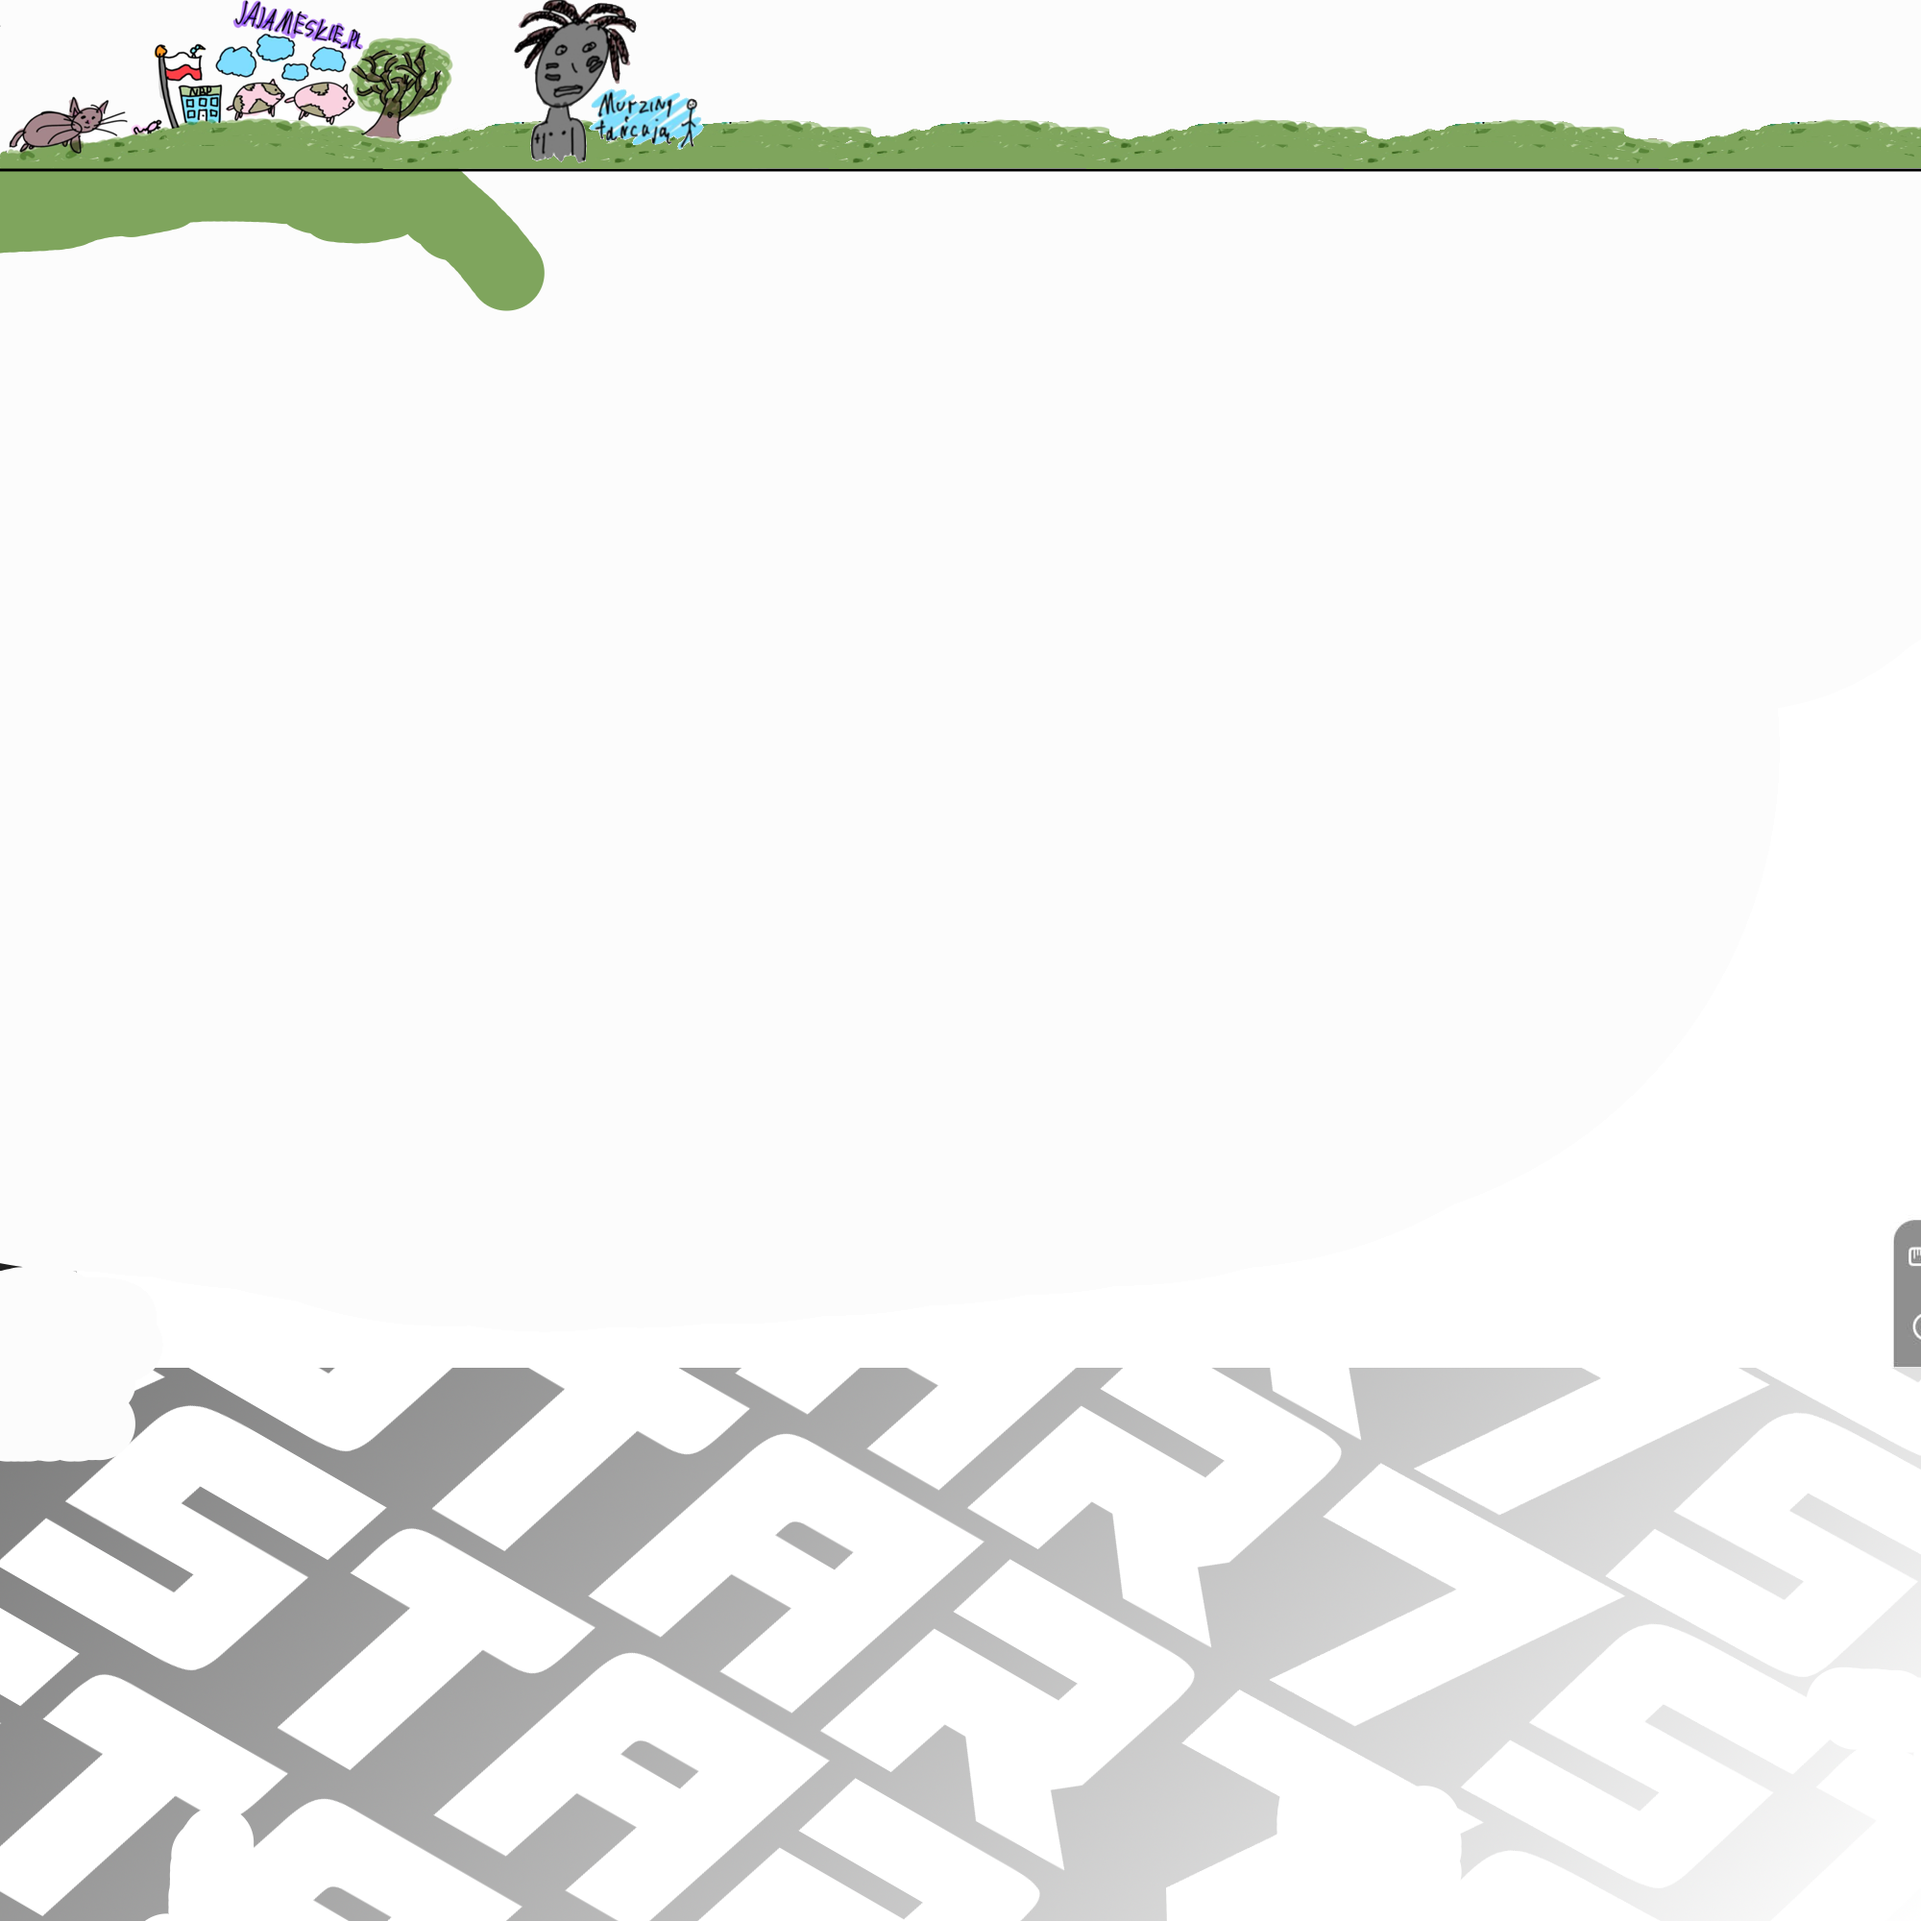
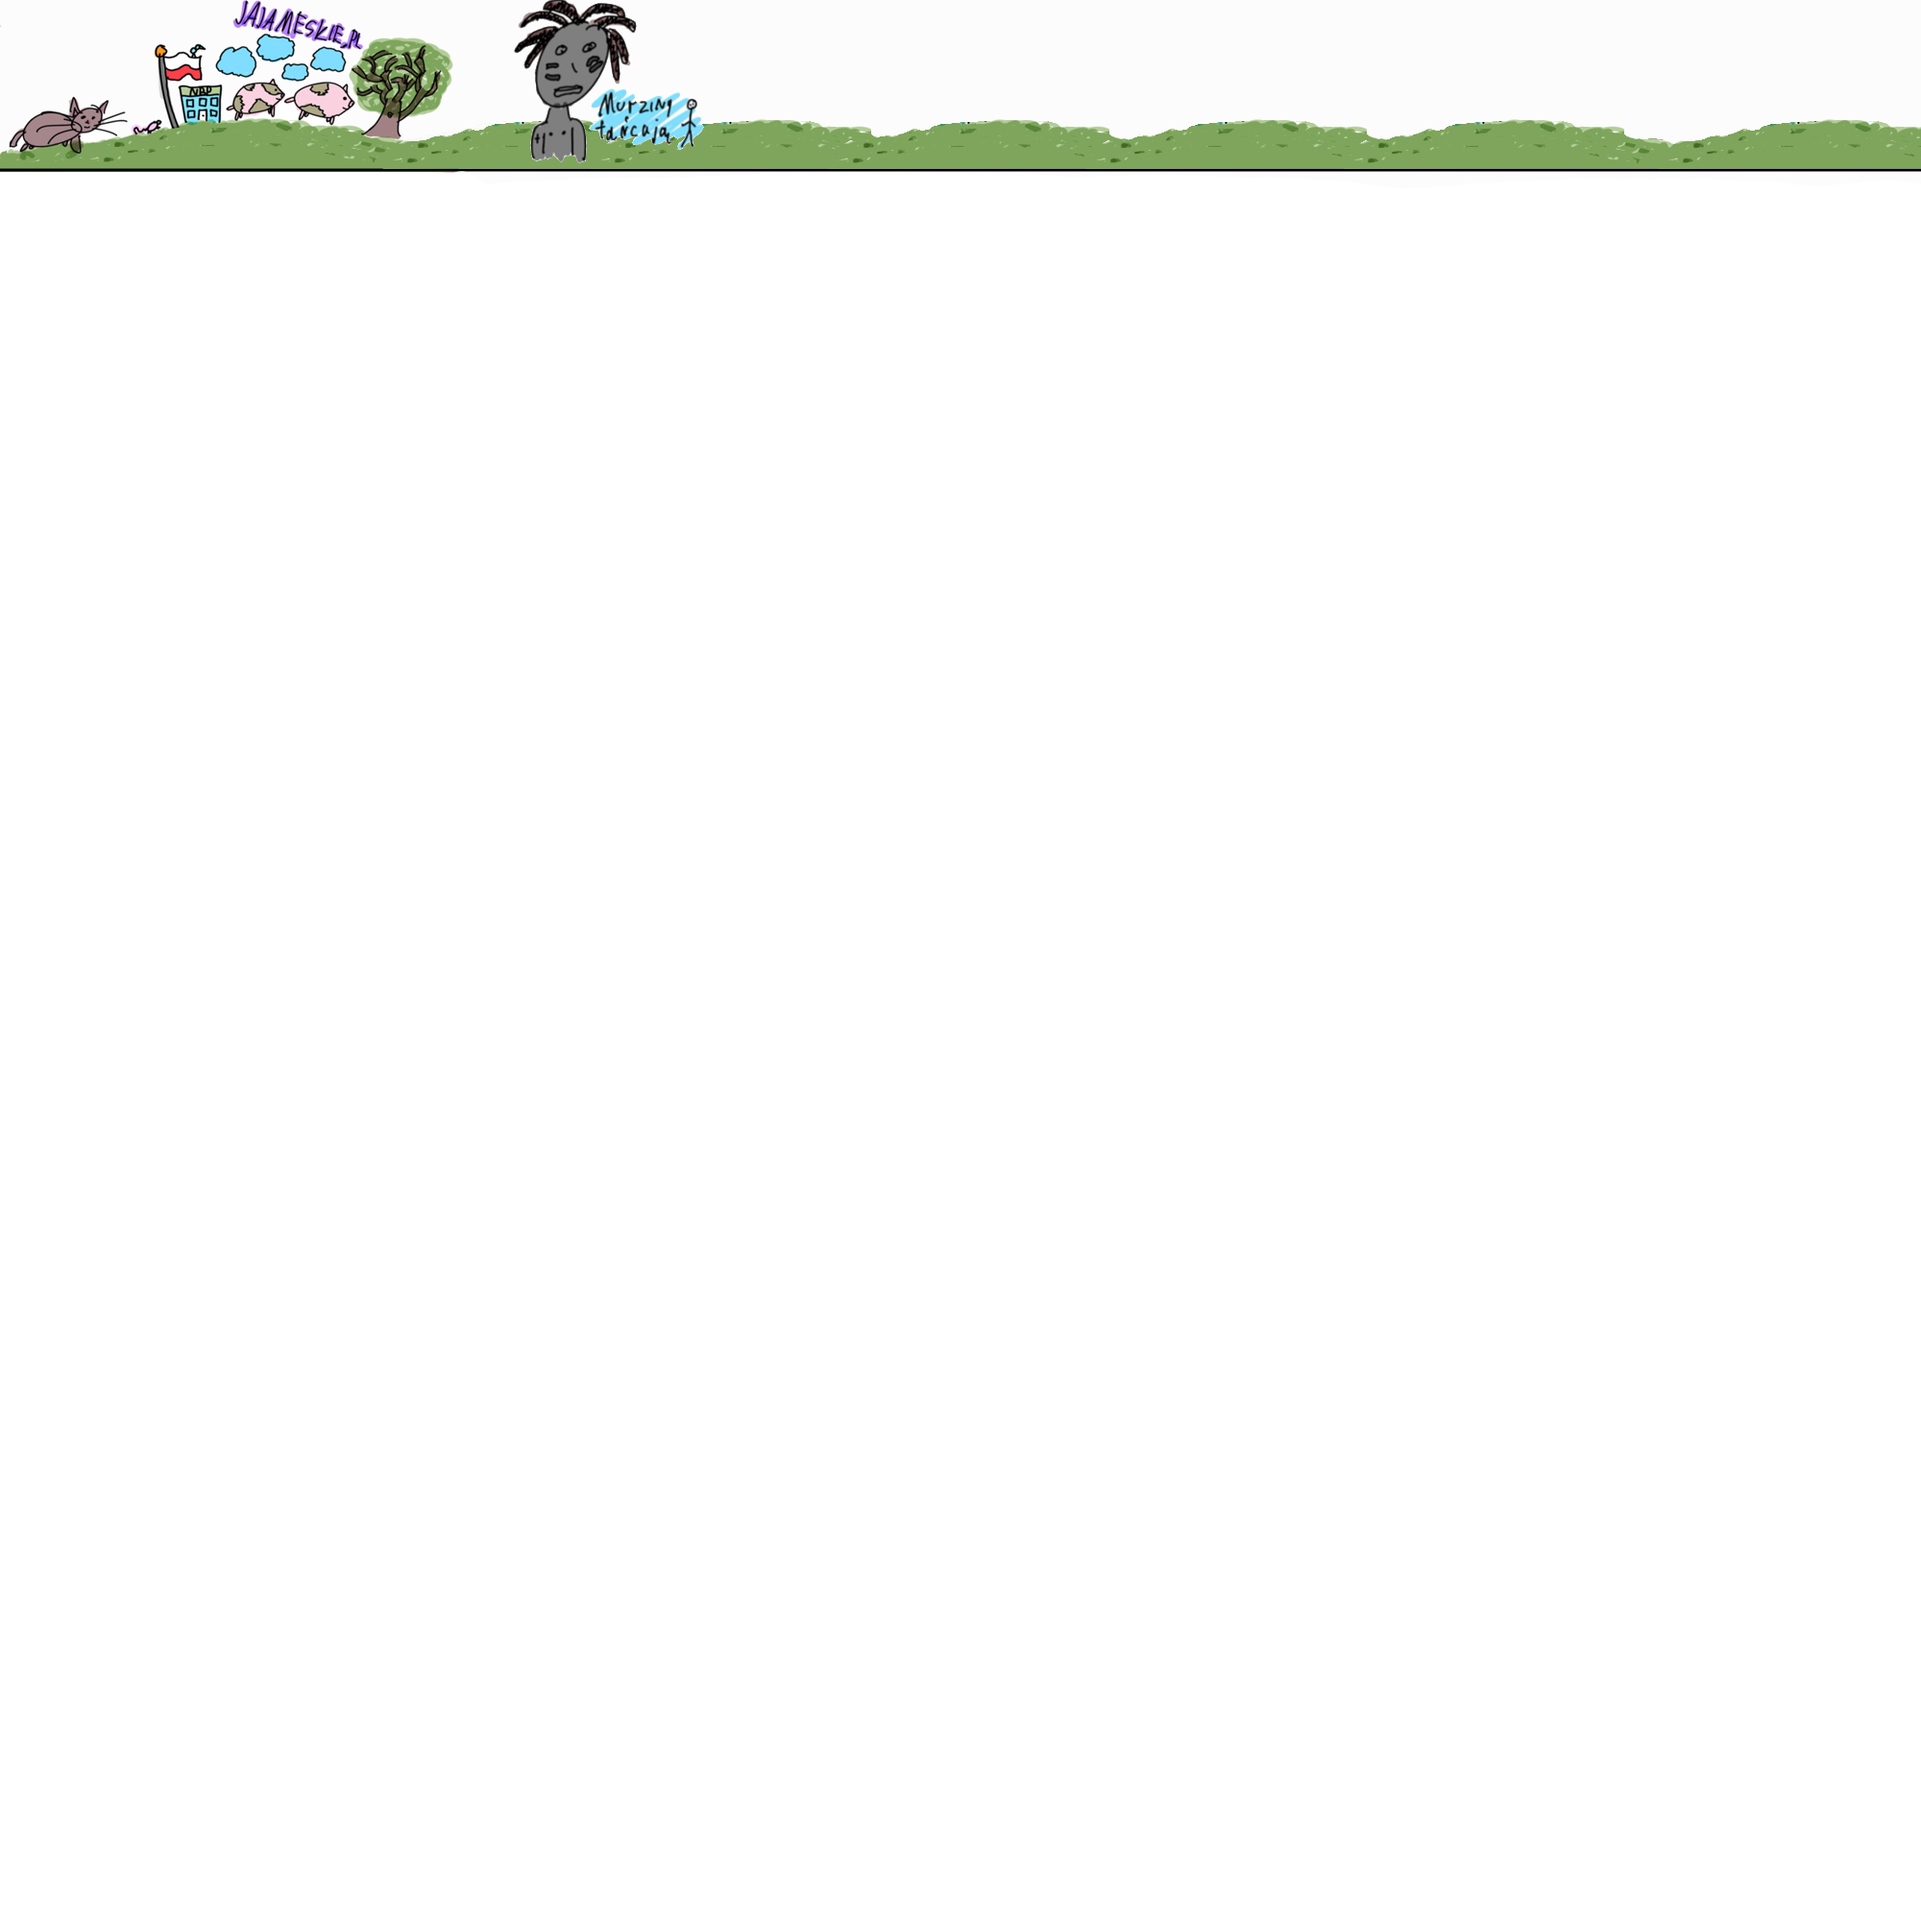
jajameskie 2.0 uuu sigma sigma

diff --git a/index.html b/index.html
@@ -1,6 +1,6 @@
 
 <title>jajameskie.pl 🤠</title>
-<body style="background-color:rgb(199, 199, 199);">
+<body style="background-color:rgb(255, 255, 255);">
 
   <!DOCTYPE html>
   <!--imports-->
@@ -11,10 +11,10 @@
   <link rel="icon" type="image/x-icon" href="assets/favicon.ico">
   <title>7STAR</title>
   
-  <body>
+  <body style="position: fixed;">
       <div id="banner">
-      <div id="banner-content" style=" color: #000000">
-          <table style="border-collapse: collapse; width: 97%; height: 150px; color: #000000" border="0">
+      <div id="banner-content" style=" color: #ffffff">
+          <table style="border-collapse: collapse; width: 97%; height: 150px; color: #ffffff" border="0">
               <tbody>
               <tr style="height: 30px;">
               <td style="width: 0%; height: 30px; vertical-align: top;"><a href="1.html" style="text-decoration: none; color: #000000;"><img style="height: 88px; width: 88px; margin-right: 30px;" src="assets/newlogosmall.png"></a></td>
@@ -25,26 +25,69 @@
               <td style="width: 1%; height: 30px; vertical-align: top;"><a href="6.html" style="text-decoration: none; color: #000000;"><h1 style="position: static; margin-top: 25px;"> </h1></a></td>
               <td style="width: 0%; height: 30px; vertical-align: top; color: red;"><h6><!--tutaj text--></h6></td>
               <td style="width: 0%; height: 30px; vertical-align: top;">&nbsp;</td>
-              <td style="width: 1%; height: 30px; vertical-align: center;"><a href="koszyk.html" style="text-decoration: none; color: #000000;"><img style="float: right; margin-right: 15px; height: 140px; width: 140px;" src="assets/dog.gif"></a></td>
-              <td style="width: 0%; height: 30px; vertical-align: center;"><a href="szukaj.html" style="text-decoration: none; color: #000000;"><img style="float: right; height: 140px; width: 140px;" src="assets/monkey.gif"></a></td>
+              <td style="width: 1%; height: 30px; vertical-align: center;"><a style="text-decoration: none; color: #000000;"><img style="float: right; margin-right: 15px; height: 140px; width: 140px;" src="assets/dog.gif"></a></td>
+
               </tr>
               </tbody>
               </table>
-          
-              
-  
+              </div> 
       </div>
+              <body style="overscroll-behavior-x: auto;">
+  
+              <head>
+                <meta charset="UTF-8" />
+                <meta name="viewport" content="width=device-width, initial-scale=1" />
+                <link rel="stylesheet" href="./index.css">
+              </head>
+
+
+                <div id="chatmessagesv1" style="height: 10px;">
+                <div id="chat">
+                  <!-- messages will display here -->
+                  <ul id="messages"></ul>
+            
+                  <!-- form to send message -->
+                  <script>
+                    var input = document.getElementById("message-input");
+                    input.addEventListener("keypress", function(event) {
+                      if (event.key === "Enter") {
+                        event.preventDefault();
+                        document.getElementById("message-btn").click();
+                      }
+                    });
+                    </script>
+                  </div id="chatmessagesv1">
+                  </body>
+
+                  <form id="message-form">
+                    <input style="margin-top: 20px;" id="message-input" type="text" />
+                    <button id="message-btn" type="submit">kocham pieski hau hau</button>
+                  </form>
+                </div>
+      
+
+
+                <!-- scripts -->
+                <script src="https://www.gstatic.com/firebasejs/8.2.1/firebase-app.js"></script>
+                <script src="https://www.gstatic.com/firebasejs/8.2.1/firebase-database.js"></script>
+                <script src="index.js"></script>
+            </html>
+            
+
+
+
+     <!-- </div>
       </div>
       <div id="main-content">
-          <h4 style="margin-top: 120px; margin-left: 60px; margin-bottom: 0px; color: #8b8b8b;"><!--tutaj text nad rzeczami--></h4>
+          <h4 style="margin-top: 120px; margin-left: 60px; margin-bottom: 0px; color: #8b8b8b;"></h4>
           <div class="items" style="color: #ffffff;">
   
               <div id="item" style="margin-top: 20px; margin-left: 30px; margin-right: 30px; background-color: rgb(77, 77, 77); height: 300px; width: 450px; ">
                 <iframe width="450" height="300" src="wielkanoc.mp4"></iframe>
                       </div>
               
-                      <!--<div id="item" style="margin-top: 20px; margin-left: 30px; margin-right: 30px; background-color: rgb(77, 77, 77); height: 300px; width: 450px; ">
-                        <iframe width="450" height="300" src="wielkanoc.mp4"></iframe>-->
+                      <div id="item" style="margin-top: 20px; margin-left: 30px; margin-right: 30px; background-color: rgb(77, 77, 77); height: 300px; width: 450px; ">
+                        <iframe width="450" height="300" src="wielkanoc.mp4"></iframe> -->
                               </div>
 
           

diff --git a/index.js b/index.js
@@ -1,0 +1,61 @@
+// Your web app's Firebase configuration
+const firebaseConfig = {
+  apiKey: "AIzaSyCmLxDM8KEU0fIRypRLPu9ZWLmJbg-vdzY",
+  authDomain: "class-c14b7.firebaseapp.com",
+  databaseURL: "https://class-c14b7-default-rtdb.europe-west1.firebasedatabase.app",
+  projectId: "class-c14b7",
+  storageBucket: "class-c14b7.appspot.com",
+  messagingSenderId: "358425338966",
+  appId: "1:358425338966:web:f615d436ff976ce840c7f7",
+  measurementId: "G-NW4XKCG003"
+};
+// Initialize Firebase
+firebase.initializeApp(firebaseConfig);
+
+// initialize database
+const db = firebase.database();
+
+// get user's data
+const username = "";
+
+// submit form
+// listen for submit event on the form and call the postChat function
+document.getElementById("message-form").addEventListener("submit", sendMessage);
+
+// send message to db
+function sendMessage(e) {
+  e.preventDefault();
+
+  // get values to be submitted
+  const timestamp = Date.now();
+  const messageInput = document.getElementById("message-input");
+  const message = messageInput.value;
+
+  // clear the input box
+  messageInput.value = "";
+
+  //auto scroll to bottom
+  document
+    .getElementById("messages")
+    .scrollIntoView({ behavior: "smooth", block: "end", inline: "nearest" });
+
+  // create db collection and send in the data
+  db.ref("messages/" + timestamp).set({
+    username,
+    message,
+  });
+}
+
+// display the messages
+// reference the collection created earlier
+const fetchChat = db.ref("messages/");
+
+// check for new messages using the onChildAdded event listener
+fetchChat.on("child_added", function (snapshot) {
+  const messages = snapshot.val();
+  const message = `<li class=${
+    username === messages.username ? "sent" : "receive"
+  }><span>${messages.username}</span><a style="text-decoration: none;" href= "${messages.message}" target="_blank">${messages.message}</a></li>`;
+  // append the message on the page
+  document.getElementById("messages").innerHTML += message;
+});

diff --git a/index.css b/index.css
@@ -1,0 +1,72 @@
+body {
+    background-image: url('assets/batman.gif');
+    margin: 0;
+    padding: 0;
+}
+
+div {
+    font-style: italic;
+    font-weight: bolder;
+    color: #ffffff;
+}
+
+header {
+    text-align: center;
+}
+
+#messages{
+    margin-top: 180px;
+    height: 50px;
+    padding-bottom: 30%;
+}
+
+li {
+    text-decoration: none;
+    list-style-type: none;
+    margin-bottom: 10px;
+    background-color: #d4b7ff71;
+    
+    padding: 5px;
+    border-radius: 10px;
+    color: rgb(0, 0, 0);
+}
+
+
+
+#chat {
+    width: 80%;
+    margin: auto;
+}
+
+#message-form {
+    font-style: italic;
+    font-weight: bolder;
+    text-align: center;
+    position: fixed;
+    left: 0;
+    bottom: 0;
+    height: 70px;
+    width: 100%;
+    background-color: #efd0ff8a;
+}
+
+input {
+    width: 70%;
+    height: 30px;
+}
+
+button {
+    width: 25%;
+    height: 38px;
+}
+
+.sent {
+    text-align: left;
+
+    background-color: #efd0ff8c;
+}
+
+.sent span {
+    margin-left: 5px;
+    color: #6929ca;
+}

diff --git a/style.css b/style.css
@@ -1,20 +1,24 @@
 body {  
-      background-color: #ffffff;
       font-family: Proxima Nova;
       font-weight: 900;
       font-size: 30px;
       padding: 0;
       animation: blur 1s ease-out;
-      background-color: #e7e7e7;
+      background-color: rgba(152, 50, 255, 0.8);
+
       }
 
+      a {
+        font-family: Arial, sans-serif;
+        font-size: 32px;
+        color: #000000;
+      }
 
   div#banner { 
-    position: fixed; 
+    position: fixed;
     top: 0; 
     left: 0; 
     background-image: url('assets/bannerbackground.png');
-    box-shadow: 0 0 75px rgba(77, 77, 77, 0.8);
     
   }
   div#banner-content { 
@@ -24,6 +28,14 @@ body {
     padding: 10px;
     display:inline-block;
     text-align: center;
+  }
+
+  ul {
+    height: 50%;
+  }
+
+  div#chat {
+    height: 50%;
   }
 
   div#main-content { 
